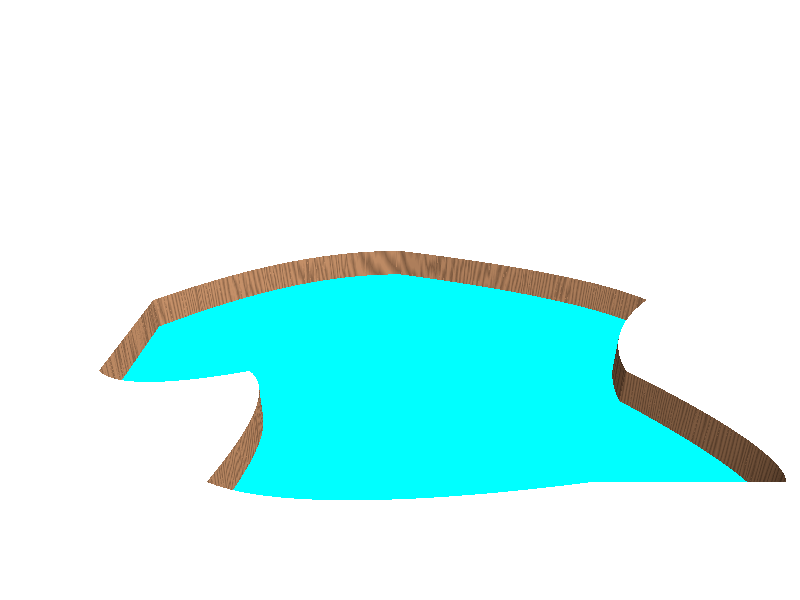
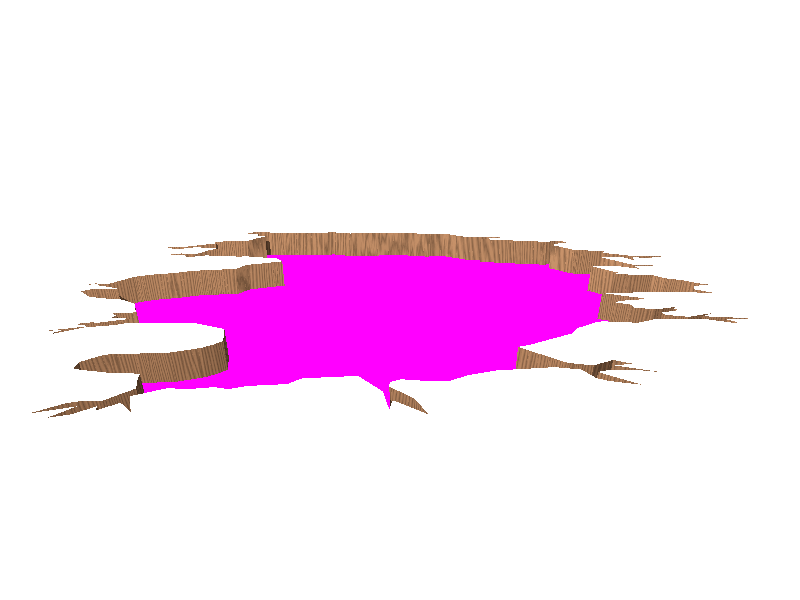
Makes hole from path, and composites images

Changed region(s): [[0.0625, 0.39, 1.0, 0.84], [0.0625, 0.54, 0.125, 0.57]]

diff --git a/svg-to-pov.py b/svg-to-pov.py
@@ -3,6 +3,23 @@
 import re
 import sys
 
+def out_pair(pair):
+    return "<%g,%g>" % (pair[0], pair[1])
+
+def declaration(points):
+    print "#declare POINTS = array[%d] {" % ((len(points)-1) * 3)
+    maybe_comma = ","
+    for i in range(len(points[:-1])):
+        if i == len(points) - 2:
+            maybe_comma = ""
+        print "%s, %s, %s%s" % (out_pair(points[i+1][0]),
+                                out_pair(points[i+1][1]),
+                                out_pair(points[i][-1]), maybe_comma)
+    print "};"
+
+def avg(x, y):
+    return (x + y) / 2
+
 def svg_to_pov():
     started = False
     extremes = {}
@@ -28,7 +45,6 @@ def svg_to_pov():
         extremes["min_x"] = extremes["max_x"] = points[0][0][0]
         extremes["min_y"] = extremes["max_y"] = points[0][0][1]
         line = f.readline()
-        print line
         regex = re.search(r"C ([0-9.]+),([0-9.]+) ([0-9.]+),([0-9.]+) ([0-9.]+),([0-9.]+)", line)
         assert(regex)
         points.append([(float(regex.group(1)), float(regex.group(2))),
@@ -42,20 +58,28 @@ def svg_to_pov():
             for pair in pairs:
                 if pair.strip() == "Z":
                     close = True
-                    point_list.append(points[0])
+                    points.append(point_list)
+                    adjust_extremes(points[-1][2][0], points[-1][2][1])
+#                    points.append(points[0])
                     break
                 pair = pair.split(",")
                 point_list.append((float(pair[0]), float(pair[1])))
-            points.append(point_list)
-            adjust_extremes(points[-1][2][0], points[-1][2][1])
-            if close:
+            if not close:
+                points.append(point_list)
+                adjust_extremes(points[-1][2][0], points[-1][2][1])
+            else:
                 break
         sys.stderr.write("Not handling anything after first Close operation\n")
-    print len(points)
-    print extremes
+    middle_x = avg(extremes["min_x"], extremes["max_x"])
+    middle_y = avg(extremes["min_y"], extremes["max_y"])
+    
+    normalized_points = [[(pair[0] - middle_x, pair[1] - middle_y) for pair in pairs] for pairs in points]
+    print "#declare POINTS = array[%d] {" % len(points)
+    print ",\n".join(["<%g, %g>" % (p[0], p[1]) for p in [pair[-1] for pair in normalized_points]])
+    print "};"
 
 def main():
-    print svg_to_pov()
+    svg_to_pov()
 
 if __name__ == "__main__":
     main()

diff --git a/README.md b/README.md
@@ -1,2 +1,4 @@
 # floor-hole
 POV Renderings of a hole
+
+Space image from https://www.extremetech.com/wp-content/uploads/2015/04/heic1007a.jpg
